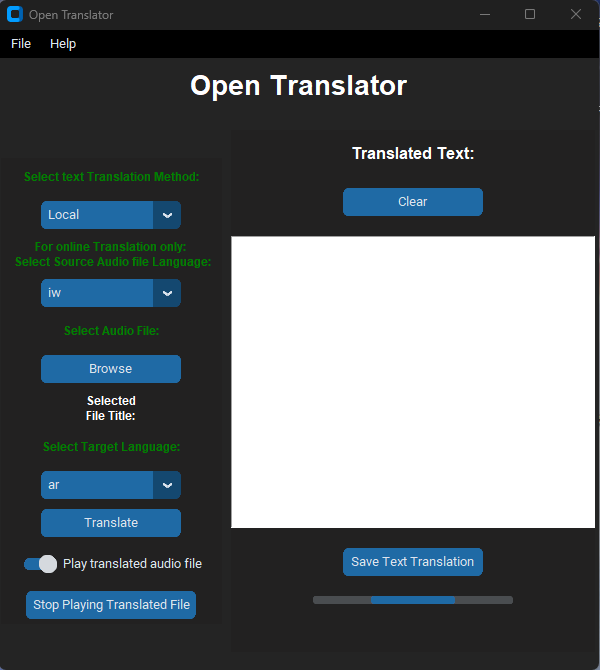
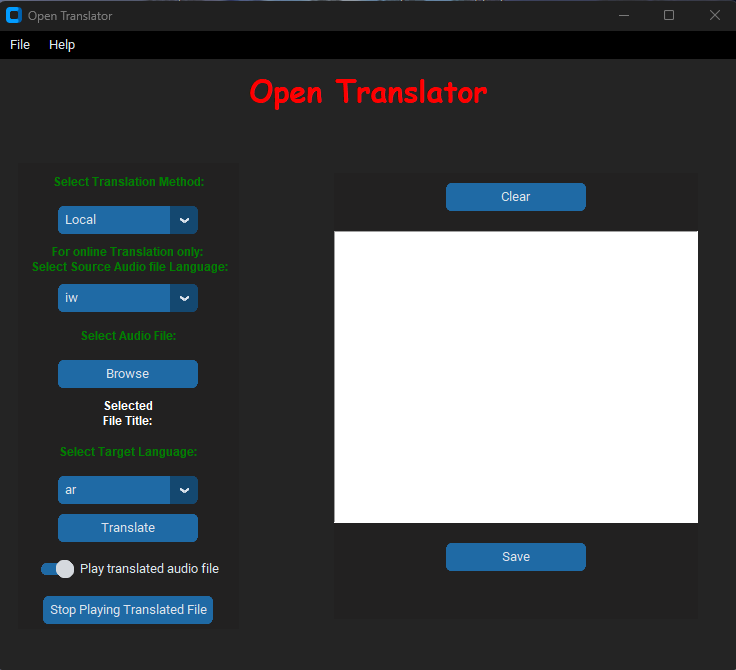
some GUI updates

diff --git a/OpenTranslator/translator_gui.py b/OpenTranslator/translator_gui.py
@@ -10,6 +10,8 @@ from CTkMenuBar import *
 import threading
 import webbrowser
 from .audio_translator import CustomTranslator
+import ctypes
+ctypes.windll.user32.SetProcessDPIAware()
 
 customtkinter.set_appearance_mode("System")	   # Modes: system (default), light, dark
 customtkinter.set_default_color_theme("blue")  # Themes: blue (default), dark-blue, green
@@ -32,19 +34,19 @@ class TranslatorGUI:
 		helpdropdown = CustomDropdownMenu(widget=self.help, width=50)
 		helpdropdown.add_option(option="About", command=self.show_about)
 		master.title("Open Translator")
-		master.geometry("600x640")
-		master.minsize(600,640)
-		master.maxsize(740,640)
+		master.geometry("740x680")
+		master.minsize(740,680)
+		master.maxsize(740,680)
 		master.attributes('-fullscreen', False)
 
-		self.label = customtkinter.CTkLabel(master=master, text="Open Translator", font=("Arial", 28, "bold"),text_color="white")
+		self.label = customtkinter.CTkLabel(master=master, text="Open Translator", font=("Comic Sans MS", 30, "bold"),text_color="red")
 		self.label.pack(side="top", pady=10)
 
 		# Create a frame for widgets using pack
 		pack_frame = Frame(master, bg="#222121")
-		pack_frame.pack(side="left", padx=2)
+		pack_frame.pack(side="left", padx=20 ,pady=20)
 		
-		self.label_target_TextTranslationOption = customtkinter.CTkLabel(pack_frame, text="Select text Translation Method:", font=("Arial", 12, "bold"),text_color="green")
+		self.label_target_TextTranslationOption = customtkinter.CTkLabel(pack_frame, text="Select Translation Method:", font=("Arial", 12, "bold"),text_color="green")
 		self.label_target_TextTranslationOption.pack(pady=5)
 		TextTranslationOption = ["Local", "Online"]	
 		self.stringvarTextTranslationOption = customtkinter.StringVar()
@@ -96,25 +98,25 @@ class TranslatorGUI:
 		
 		# Create a frame for widgets using grid
 		grid_frame = Frame(master, bg="#222121")
-		grid_frame.pack(side="right", padx=4)
+		grid_frame.pack(side="right", padx=20 ,pady=20)
 		
-		self.label_translated_text = customtkinter.CTkLabel(grid_frame, text="Translated Text:", font=("Arial", 16, "bold"), text_color="white")
-		self.label_translated_text.grid(row=5, column=0, columnspan=2, pady=10)
+		#self.label_translated_text = customtkinter.CTkLabel(grid_frame, text="Translated Text:", font=("Arial", 16, "bold"), text_color="white")
+		#self.label_translated_text.grid(row=5, column=0, columnspan=2, pady=10)
 		
 		self.clear_button = customtkinter.CTkButton(grid_frame, text="Clear", command=self.clear_text)
 		self.clear_button.grid(row=6, column=0, columnspan=1, pady=10)
 		
-		self.text_translated = tk.Text(grid_frame, height=18, width=45, wrap = 'word')
+		self.text_translated = tk.Text(grid_frame, height=20, width=45, wrap = 'word')
 		self.text_translated.grid(row=7, column=0, columnspan=1, pady=10)
 
-		self.save_button = customtkinter.CTkButton(grid_frame, text="Save Text Translation", command=self.save_translation)
+		self.save_button = customtkinter.CTkButton(grid_frame, text="Save", command=self.save_translation)
 		self.save_button.grid(row=9, column=0, columnspan=1, pady=10)
 		
-		self.progress_bar = customtkinter.CTkProgressBar(grid_frame, variable=DoubleVar(), mode='indeterminate')
-		self.progress_bar.grid(row=10, column=0, columnspan=2, pady=10)
+		#self.progress_bar = customtkinter.CTkProgressBar(grid_frame, variable=DoubleVar(), mode='indeterminate')
+		#self.progress_bar.grid(row=11, column=0, columnspan=2, pady=10)
 
 		self.label_status = customtkinter.CTkLabel(grid_frame, text="")
-		self.label_status.grid(row=11, column=0, columnspan=2, pady=5)
+		self.label_status.grid(row=12, column=0, columnspan=2, pady=5)
 	
 	def switch_event(self):
 		print("switch toggled, current value:", self.switch_var.get())		
@@ -125,7 +127,7 @@ class TranslatorGUI:
 			if output_path:
 				translation_thread = threading.Thread(target=self.run_translation, args=(output_path,))
 				translation_thread.start()
-				self.progress_bar.start()
+				#self.progress_bar.start()
 				self.label_status.configure(text="Translation in progress...",font=("Arial", 16, "bold"),text_color="red")	 
 				
 	def extract_audio(self):
@@ -317,7 +319,7 @@ class TranslatorGUI:
 																 chunk_idx, output_path,self.target_TextTranslationOption_dropdown.get())											 
 				except Exception as e:
 					print(f"{e}")
-					self.progress_bar.stop()
+					#self.progress_bar.stop()
 					self.label_status.configure(text="An Error occurred!",font=("Arial", 16, "bold"),text_color="red")
 				
 				chunk_files.append(chunk_output_path)
@@ -349,7 +351,7 @@ class TranslatorGUI:
 			self.delete_chunk_files(Translation_chunk_files)
 			chunk_files = []  # List to store individual chunk files
 			Translation_chunk_files = []
-			self.progress_bar.stop()
+			#self.progress_bar.stop()
 
 			self.label_status.configure(text="Translation complete!",font=("Arial", 16, "bold"),text_color="green")
 			
@@ -370,7 +372,7 @@ class TranslatorGUI:
 															 chunk_idx, output_path,self.target_TextTranslationOption_dropdown.get())											 
 			except Exception as e:
 				print(f"{e}")
-				self.progress_bar.stop()
+				#self.progress_bar.stop()
 				self.label_status.configure(text="An Error occurred!",font=("Arial", 16, "bold"),text_color="red")
 			
 			chunk_files = []  # List to store individual chunk files
@@ -391,12 +393,12 @@ class TranslatorGUI:
 				# Play the final merged audio file
 				self.translator_instance.play_audio(output_path)
 
-			self.progress_bar.stop()
+			#self.progress_bar.stop()
 
 			self.label_status.configure(text="Translation complete!",font=("Arial", 16, "bold"),text_color="green")	
 		
 		else:
-			self.progress_bar.stop()
+			#self.progress_bar.stop()
 			print('For online translation: you need to use an audio file longer then 30 sec !')	
 			messagebox.showinfo("Info", f"For online translation: you need to use an audio file longer then 30 sec !")
 			self.label_status.configure(text="",font=("Arial", 16, "bold"),text_color="black")
